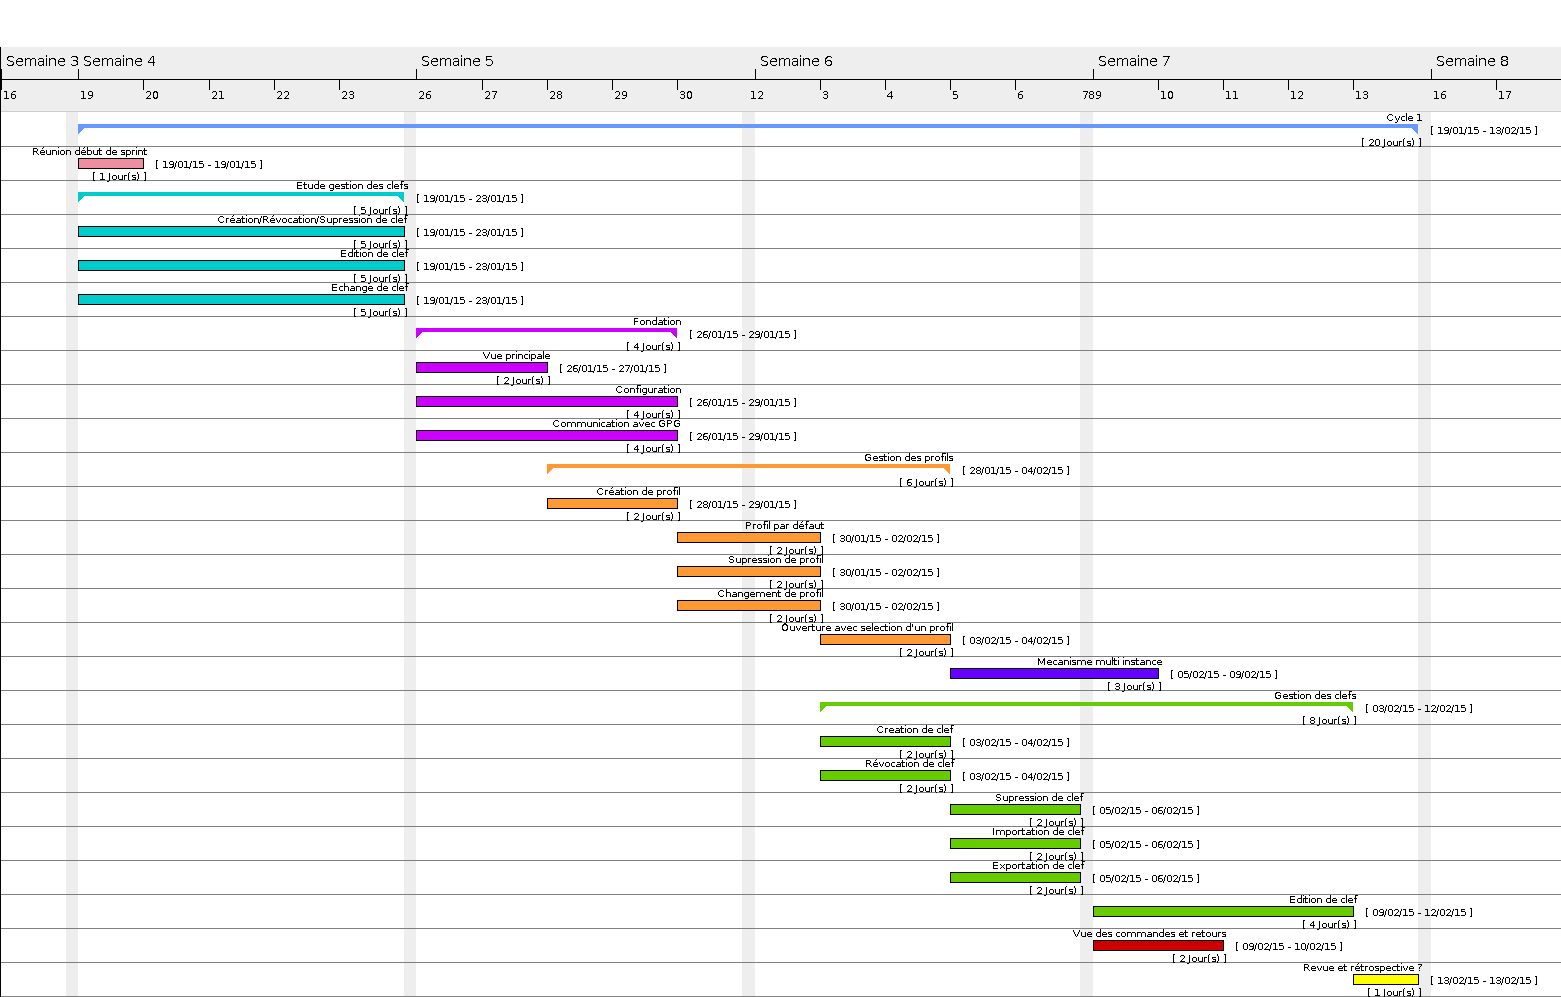
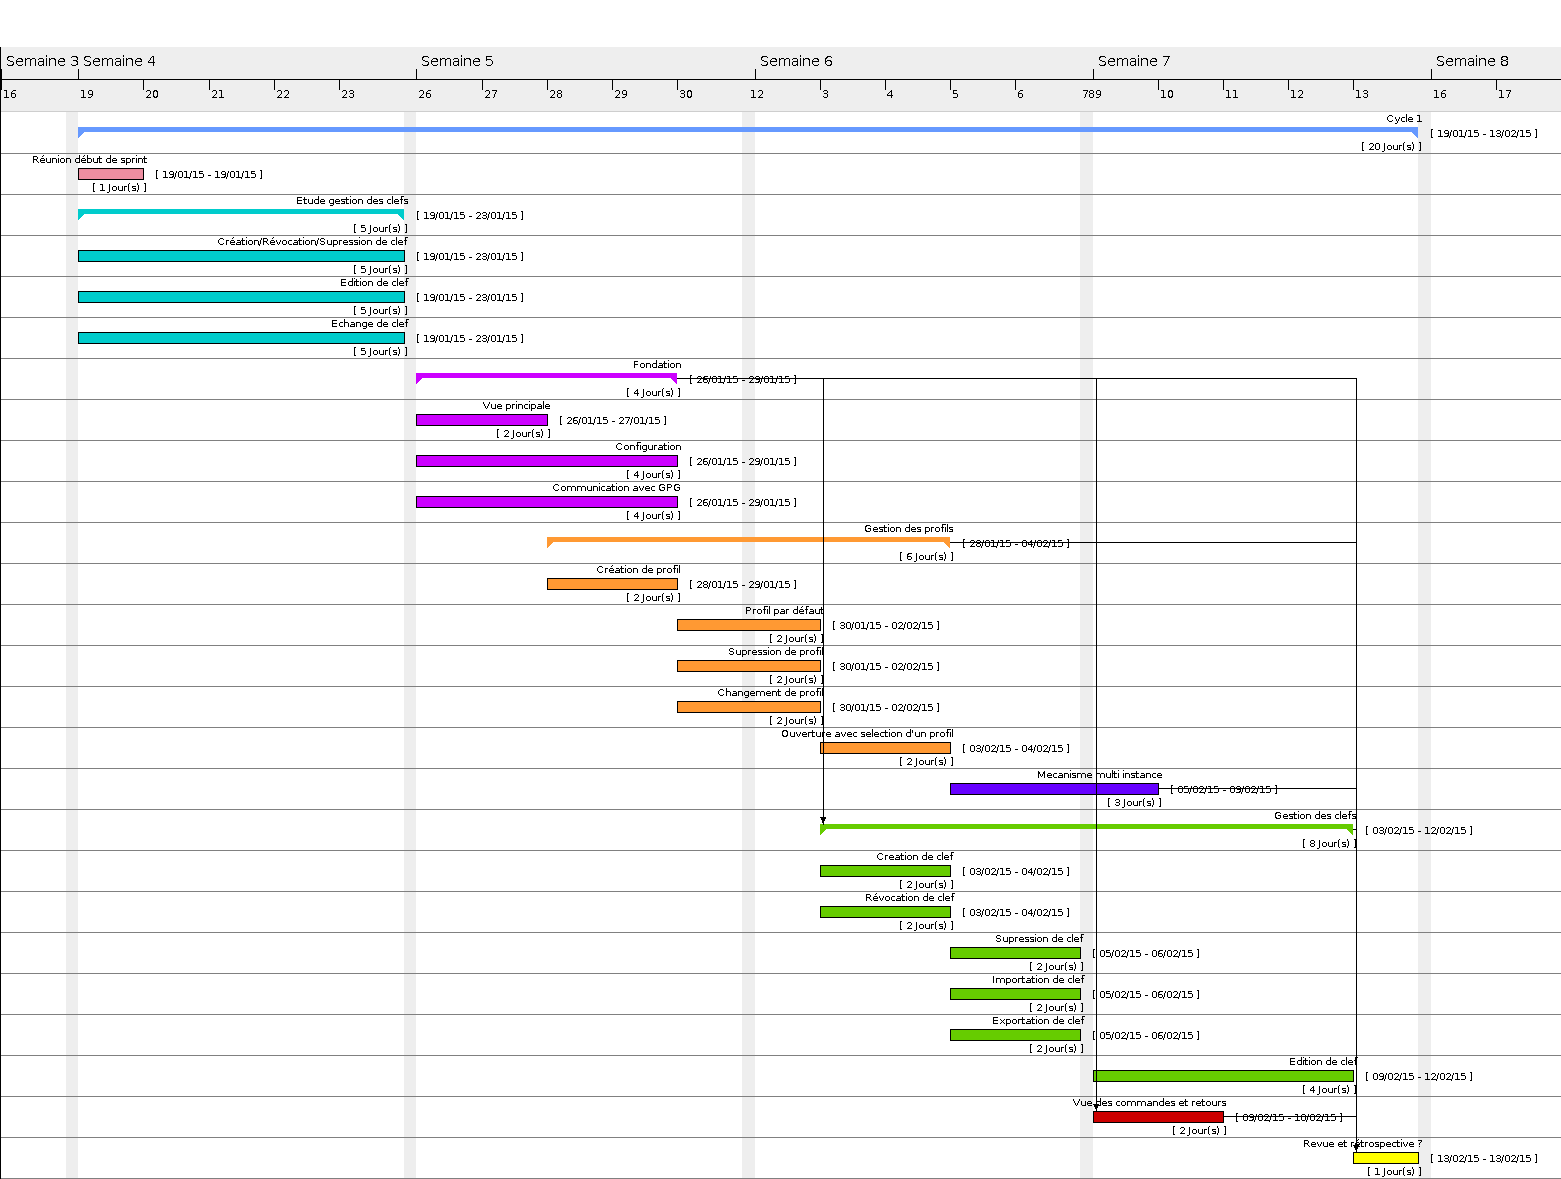
maj presentation gestion et conclusion et planning gantt

diff --git a/documents/Presentation/Gestion.tex b/documents/Presentation/Gestion.tex
@@ -1,33 +1,76 @@
 \section{La gestion}
+\subsection{Conduite du changement}
+\begin{frame}
+  \frametitle{\color{white} Conduite du changement}
+  \begin{block}{Indentification}
+    \begin{itemize}
+      \item difficultés et/ou inquiétudes des membres
+      \item facteurs de non motivation
+    \end{itemize}
+  \end{block}
+  \begin{block}{Actions}
+    \begin{itemize}
+      \item Sensibiliser les membres
+      \item Valeur du produit
+      \item Bénéfices personnelles
+      \item Goût du challenge
+    \end{itemize}
+  \end{block}
+\end{frame}
 \subsection{Méthodologie}
 \begin{frame}
   \frametitle{\color{white} Méthodologie}
   \begin{figure}[p]
     \centering
     \includegraphics[scale=.3]{Schema_methodologie_developpement}
-    \caption{Schéma d'un sprint}
-  \end{figure}
-\end{frame}
-\subsection{Organisation}
-\begin{frame}
-  \frametitle{\color{white} Organisation}
-  \begin{figure}[p]
-    \centering
-    \includegraphics[scale=.33]{Organigramme_roles}
-    \caption{Organigramme des participants au projet}
   \end{figure}
 \end{frame}
 \subsection{Évaluation du projet}
 \begin{frame}
   \frametitle{\color{white} Évaluation du projet}
- 
+  \begin{tabular}{|l|l|l|}
+    \hline
+    \multicolumn{1}{|c|}{\cellcolor{gray} \color{white}Catégories} & \multicolumn{1}{|c|}{\cellcolor{gray} \color{white}Charge (\%)} & \multicolumn{1}{|c|}{\cellcolor{gray} \color{white}Charge (j.H)} \\
+    \hline
+    \cellcolor{bleu}\color{white}Fondation & \multicolumn{1}{|c|}{\cellcolor{bleu}\color{white}5} & \multicolumn{1}{|c|}{\cellcolor{bleu}\color{white}3} \\
+    \hline
+    \cellcolor{bleu}\color{white}Mécanisme multi-instance & \multicolumn{1}{|c|}{\cellcolor{bleu}\color{white}2} & \multicolumn{1}{|c|}{\cellcolor{bleu}\color{white}1,2} \\    
+    \hline
+    \cellcolor{bleu}\color{white}Gestion des profils & \multicolumn{1}{|c|}{\cellcolor{bleu}\color{white}6} & \multicolumn{1}{|c|}{\cellcolor{bleu}\color{white}3,6} \\
+    \hline
+    \cellcolor{bleu}\color{white}\'{E}tude gestion des clefs & \multicolumn{1}{|c|}{\cellcolor{bleu}\color{white}6} & \multicolumn{1}{|c|}{\cellcolor{bleu}\color{white}3,6} \\
+    \hline
+    \cellcolor{bleu}\color{white}Gestion des clefs & \multicolumn{1}{|c|}{\cellcolor{bleu}\color{white}9} & \multicolumn{1}{|c|}{\cellcolor{bleu}\color{white}5,4} \\
+    \hline
+    \cellcolor{bleu}\color{white}Vue des commandes et retours GPG & \multicolumn{1}{|c|}{\cellcolor{bleu}\color{white}2} & \multicolumn{1}{|c|}{\cellcolor{bleu}\color{white}1,2} \\
+    \hline
+    \cellcolor{orange}\color{white}\'{E}tude des opérations cryptographiques & \multicolumn{1}{|c|}{\cellcolor{orange}\color{white}6} & \multicolumn{1}{|c|}{\cellcolor{orange}\color{white}3,6} \\
+    \hline
+    \cellcolor{orange}\color{white}Opérations cryptographiques & \multicolumn{1}{|c|}{\cellcolor{orange}\color{white}7} & \multicolumn{1}{|c|}{\cellcolor{orange}\color{white}4,2} \\
+    \hline
+    \cellcolor{orange}\color{white}\'{E}tude gestion de la toile de confiance & \multicolumn{1}{|c|}{\cellcolor{orange}\color{white}8} & \multicolumn{1}{|c|}{\cellcolor{orange}\color{white}4,8} \\
+    \hline
+    \cellcolor{orange}\color{white}Toile de confiance statique & \multicolumn{1}{|c|}{\cellcolor{orange}\color{white}11} & \multicolumn{1}{|c|}{\cellcolor{orange}\color{white}6,6} \\
+    \hline
+    \cellcolor{orange}\color{white}\'{E}diteur & \multicolumn{1}{|c|}{\cellcolor{orange}\color{white}4} & \multicolumn{1}{|c|}{\cellcolor{orange}\color{white}2,4} \\
+    \hline
+    \cellcolor{vert}\color{white}\'{E}tude des limites & \multicolumn{1}{|c|}{\cellcolor{vert}\color{white}12} & \multicolumn{1}{|c|}{\cellcolor{vert}\color{white}7,2} \\
+    \hline
+    \cellcolor{vert}\color{white}Attaque & \multicolumn{1}{|c|}{\cellcolor{vert}\color{white}12} & \multicolumn{1}{|c|}{\cellcolor{vert}\color{white}7,2} \\
+    \hline
+    \cellcolor{vert}\color{white}Toile dynamique & \multicolumn{1}{|c|}{\cellcolor{vert}\color{white}10} & \multicolumn{1}{|c|}{\cellcolor{vert}\color{white}6} \\
+    \hline
+    Total & \multicolumn{1}{|c|}{100} & \multicolumn{1}{|c|}{60} \\
+    \hline
+  \end{tabular}
 \end{frame}
 \subsection{Planning}
 \begin{frame}
   \frametitle{\color{white} Planning}
-  \begin{figure}[p]
-    \centering
-    \includegraphics[scale=.33]{Planing_general}
-    \caption{Planing général}
-  \end{figure}
+  \begin{block}{Planning général}
+	Voir annexe
+  \end{block}
+  \begin{block}{Planning du sprint 1}
+	Voir annexe
+  \end{block}
 \end{frame}

diff --git a/documents/Presentation/Conclu.tex b/documents/Presentation/Conclu.tex
@@ -1,12 +1,34 @@
 \section{Conclusion}
 \begin{frame}
-  \frametitle{\color{white}Pour Finir}
-  \begin{block}{Question?}
-	bla
+  \frametitle{\color{white}Conclusion}
+  \begin{block}{Objectif finale}
+    \begin{itemize}
+     \item Une interface graphique à forte valeur ajoutée
+     \item Déterminer les limites de PGP
+     \item Expérimenter une attaque démontrant une des limites
+    \end{itemize}
+  \end{block}
+  
+  \begin{block}{Agilité}
+    \begin{itemize}
+     \item Scrum
+     \item eXtreme Programming
+    \end{itemize}
   \end{block}
      
-  \begin{block}{Autres}
-  bla bla
+  \begin{block}{Qualité}
+    \begin{itemize}
+     \item Développement dirigé par les tests
+     \item Intégration continue
+    \end{itemize}
+  \end{block}
+  
+  \begin{block}{Technique}
+    \begin{itemize}
+     \item C++
+     \item Qt5
+     \item Git
+    \end{itemize}
   \end{block}
 \end{frame}
         

diff --git a/documents/Presentation/Presentation.tex b/documents/Presentation/Presentation.tex
@@ -70,6 +70,5 @@
  \include{Technique}
  \include{Gestion}
  \include{Conclu}
-
 \end{document}
 
